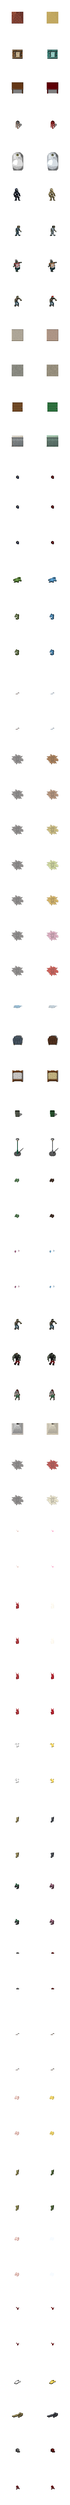
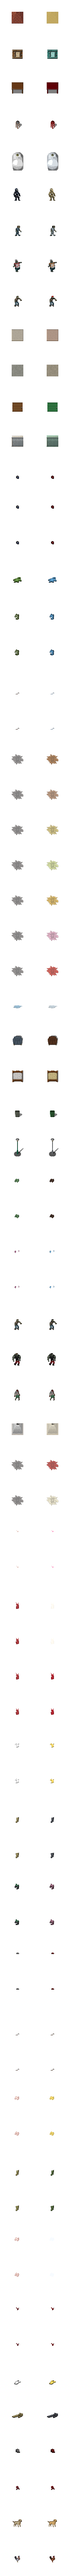
saigon: G28 street animals: chó ta and gà ta in the alleys
New monsters: street dog (chó ta, yellow-tan, from mon_dog) and yard
chicken (gà ta, copper with a red comb, from mon_chicken), with derived
sprites. sgn_GROUP_SAIGON_ANIMALS mixes them with dda cats and sewer
rats and spawns sparsely on hẻm spines and nhà ống back alleys, inside
the per-OMT monster budget the tests enforce.

G27 (canal) and G29 (landmark map icons) are marked blocked on their
content units (B8f canal, landmark buildings).

diff --git a/tools/saigon/gen_hem.py b/tools/saigon/gen_hem.py
@@ -171,7 +171,9 @@ def block_mapgen():
                              { 'group': 'sgn_GROUP_SAIGON_AWAKE', 'x': [ 11, 12 ], 'y': [ 0, 23 ], 'chance': 60,
                                'repeat': [ 1, 2 ] },
                              { 'group': 'sgn_GROUP_ZOMBIE_DORMANT', 'x': [ 0, 23 ], 'y': [ 11, 12 ], 'chance': 80,
-                               'repeat': [ 2, 5 ] } ] } }
+                               'repeat': [ 2, 5 ] },
+                             # G28: a stray dog, cat, chicken or rat in the alley now and then
+                             { 'group': 'sgn_GROUP_SAIGON_ANIMALS', 'x': [ 0, 23 ], 'y': [ 11, 12 ], 'chance': 35 } ] } }
 
 
 def overmap():

diff --git a/tools/saigon/gen_nha_ong.py b/tools/saigon/gen_nha_ong.py
@@ -235,6 +235,8 @@ def row_mapgen( oters, z0 ):
         obj['fill_ter'] = 't_concrete'
         obj['rows'] = [ 'S' * 24, 'S' * 24 ] + [ ' ' * 24 ] * 18 + [ 'P' * 24 ] * 4
         obj['terrain'] = { 'S': 't_sidewalk', 'P': 't_concrete' }
+        # G28: strays in the back alley behind the row
+        obj['place_monster'] = [ { 'group': 'sgn_GROUP_SAIGON_ANIMALS', 'x': [ 0, 23 ], 'y': [ 20, 23 ], 'chance': 30 } ]
     else:
         obj['fill_ter'] = 't_open_air'
     return { 'type': 'mapgen', 'om_terrain': oters, 'object': obj }

diff --git a/doc/saigon/PROGRESS.md b/doc/saigon/PROGRESS.md
@@ -152,8 +152,8 @@ Triage from contact sheets (`tools/saigon/art/contact_sheet.py`): most "to revis
 | G24 household and medicine items | done | (this) | items/gear/household.json: stand fan, kerosene lamp, altar candle, brick phone, cassette radio, mosquito net, dầu gió, oresol (+ recipe → rehydration_drink), cloth face mask (+ derived worn overlays); in living/pagoda/pharmacy loot. Chiếu dropped (the G11 chiếu bed covers it). Lit lamp/candle/radio become the dda lit variants (inherited transform). 9 drawn icons. [saigon] 13/13, real-game load OK |
 | G25 work gear, trade, street dishes | done | (this) | items/food/street_food_2.json: hủ tiếu, bánh xèo, gỏi cuốn, xôi, bánh bao, dried squid, dried shrimp, rice paper (+ recipes for hủ tiếu, xôi); items/gear/work_trade.json: pry bar, quang gánh (two 20 L baskets, drawn worn overlay), plastic basket, basin, cast net (thrown), lottery tickets, Sao Mai cigarettes, lượng of gold; in cart/chợ/moto/home/café loot. 16 icons + 2 overlays. [saigon] 13/13, real-game load OK |
 | G26 clothing + worn overlays | done | (this) | items/gear/clothing.json: white + red áo dài, cotton tee, slacks, sun jacket, cap, dép lào, công an shirt + olive trousers, white school shirt, red Young Pioneer scarf; homes and zombie-clothes loot. 22 worn overlays + 4 icons derived from dda garments, 7 icons drawn. Worn áo dài uses the dress silhouette (hand art later, H1). [saigon] 13/13, real-game load OK |
-| G27 canal (with B8f) | todo | - | |
-| G28 animals | todo | - | |
-| G29 map icons for new landmarks | todo | - | |
+| G27 canal (with B8f) | blocked | - | needs B8f canal content first (overmap kênh, mapgen, boats test); art follows it |
+| G28 animals | done | (this) | monsters/animals.json: sgn_mon_cho_ta (street dog, from mon_dog), sgn_mon_ga_ta (yard chicken, from mon_chicken), sgn_GROUP_SAIGON_ANIMALS (+ dda cat and sewer rat), spawned on hẻm spines (35%) and nhà ống back alleys (30%); budget test still passes. 2 derived sprites. Canal snake / monitor lizard wait for the canal (B8f) and hand art. [saigon] 13/13, real-game load OK |
+| G29 map icons for new landmarks | blocked | - | needs the landmark buildings (church, school, ward office, internet café, karaoke, repair shop, gold shop, ice factory) as content first |
 | H1 hand-art pass (artist) | todo | - | zombies, NPC outfits, áo dài, polish |
 | G17b QA: worlds failed to load (user report) | done | (this) | Blocker R0: mod tileset "file" paths must be relative to the MOD ROOT (tileset_root = mod base path); since G6 every world load aborted on "Could not load image". Packers write gfx/<sheet>; tools resolve via sheet_path(); validator resolves like the engine; check_mod.sh runs it. Real cataclysm-tiles load of a copied Saigon world: tilesets load, character drawn. New test saigon_new_game_start_locations (3 start locations). [saigon] 13/13 pass |

diff --git a/art/saigon/SOURCES_DERIVED.md b/art/saigon/SOURCES_DERIVED.md
@@ -338,3 +338,5 @@ Generated by `tools/saigon/art/derive_sprites.py`. Every sprite below is a modif
 | `sgn_quan_tay` | `pants` | [{"op": "recolor", "hue": [0, 360], "min_sat": 0.0, "to_hue": 220, "sat_set": 0.12, "val_mul": 0.6}] |
 | `sgn_non_ket` | `hat_ball` | [{"op": "recolor", "hue": [0, 360], "min_sat": 0.0, "to_hue": 2, "sat_set": 0.75, "val_mul": 1.0}] |
 | `sgn_khan_quang_do` | `scarf` | [{"op": "recolor", "hue": [0, 360], "min_sat": 0.0, "to_hue": 358, "sat_set": 0.85, "val_mul": 1.0}] |
+| `sgn_mon_cho_ta` | `mon_dog` | [{"op": "recolor", "hue": [0, 360], "min_sat": 0.0, "max_val": 0.95, "to_hue": 36, "sat_set": 0.5, "val_mul": 1.15}] |
+| `sgn_mon_ga_ta` | `mon_chicken` | [{"op": "recolor", "hue": [0, 360], "min_sat": 0.0, "max_val": 0.98, "to_hue": 18, "sat_set": 0.62, "val_mul": 0.85}, {"op": "recolor", "hue": [0, 360], "min_sat": 0.0, "rows": [0, 12], "to_hue": 0, "sat_set": 0.85, "val_mul": 1.0}] |

diff --git a/doc/saigon/art/manifest_summary.md b/doc/saigon/art/manifest_summary.md
@@ -1,10 +1,10 @@
 # Saigon art manifest: summary
 
-Generated by `tools/saigon/art_manifest.py`; full list in `manifest.csv` (2707 ids).
+Generated by `tools/saigon/art_manifest.py`; full list in `manifest.csv` (2711 ids).
 
 | Tier | furniture | item | monster | overmap_terrain | terrain | vehicle_part | total |
 |---|---|---|---|---|---|---|---|
-| T1 | 36 (16 mod / 20 dda) | 60 (8 mod / 52 dda) | 13 (4 mod / 9 dda) | 24 (24 mod / 0 dda) | 64 (24 mod / 40 dda) | 38 (7 mod / 31 dda) | 235 |
+| T1 | 36 (16 mod / 20 dda) | 60 (8 mod / 52 dda) | 17 (6 mod / 11 dda) | 24 (24 mod / 0 dda) | 64 (24 mod / 40 dda) | 38 (7 mod / 31 dda) | 239 |
 | T2 | 0 (0 mod / 0 dda) | 107 (87 mod / 20 dda) | 0 (0 mod / 0 dda) | 0 (0 mod / 0 dda) | 0 (0 mod / 0 dda) | 0 (0 mod / 0 dda) | 107 |
 | T3 | 0 (0 mod / 0 dda) | 2365 (0 mod / 2365 dda) | 0 (0 mod / 0 dda) | 0 (0 mod / 0 dda) | 0 (0 mod / 0 dda) | 0 (0 mod / 0 dda) | 2365 |
 
